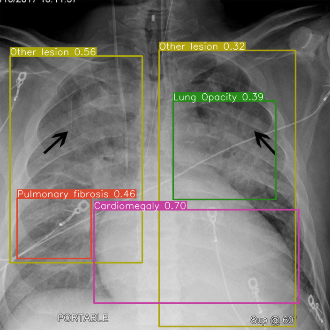
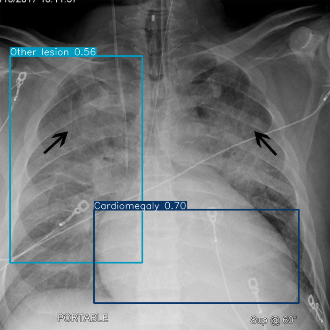
repair some code in ajax and change img all the time using ajax

diff --git a/app/static/js/main.js b/app/static/js/main.js
@@ -320,6 +320,11 @@ function ajaxInUserManagement() {
 //   console.log(value.value);
 // }
 
+function removeQueryString(url) {
+  var parts = url.split('?');
+  var cleanedUrl = parts[0];
+  return cleanedUrl;
+}
 
 function sumUpManualBoundingBoxAndDownloadInXray() {
   // edit and download file
@@ -329,6 +334,9 @@ function sumUpManualBoundingBoxAndDownloadInXray() {
     var ctx = canvas.getContext("2d");
     var realImg = document.getElementById("xray-img--output");
     var image = document.getElementById("img_link_download");
+    // console.log(image);
+    // var imgSrc = image.src;
+    // image.src = removeQueryString(imgSrc);
     var editBtn = document.getElementById("editing");
     var downloadBtn = document.getElementById("downloading");
     var undoBtn = document.getElementById('btn-undo-xray');
@@ -343,8 +351,8 @@ function sumUpManualBoundingBoxAndDownloadInXray() {
 
     // canvas.width = image.width;
     // canvas.height = image.height;
-    canvas.width = image.width;
-    canvas.height = image.height;
+    canvas.width = 330;
+    canvas.height = 330;
     canvas.style.objectFit = "contain";
 
     var isDrawing = false;
@@ -509,7 +517,7 @@ function sumUpManualBoundingBoxAndDownloadInXray() {
                         "<p class='mb-0 w-75 text-left text-secondary'>"+ item +"</p>" + 
                           "<div class='w-25 text-right'>" + 
                                 "<input type='hidden' class='delete-doctor-predict' value='"+ item + "' />"+
-                              "<i id='"+ item+"' style='font-size: 18px' class='doctor-predict-icon fa-solid fa-circle-minus text-right text-danger'></i>" +
+                              "<i id='"+ item+"' style='font-size: 18px' class='doctor-predict-icon fa-solid fa-pen-to-square text-right text-danger'></i>" +
                           "</div>" + 
                         "</div>" + 
                       "<div style='height: 5px;background-color: #ccc;border-radius: 10px;overflow: hidden;' class='xray-percent--outer w-100'>"+
@@ -517,6 +525,7 @@ function sumUpManualBoundingBoxAndDownloadInXray() {
                       "</div>" + 
                     "</div>"; 
       });
+      // <i class="fa-solid fa-pen-to-square"></i>
       $('#profile').html(htmlContent)
     }
 
@@ -595,9 +604,8 @@ function sumUpManualBoundingBoxAndDownloadInXray() {
     });
 
     // Sự kiện khi nhấn nút "Download"
-    // $(document).ready(function() {
         downloadBtn.addEventListener("click", function() {
-          // console.log("Btn is clicked");
+          var count = 0;
           // Lấy reference đến canvas và context
           if(boundingBoxes.length != 0 && hashMapData.length != 0){
             var imageUrl = document.getElementById("img_link_download").src;
@@ -616,30 +624,26 @@ function sumUpManualBoundingBoxAndDownloadInXray() {
             imageClass.src = proxyUrl;
 
             canvas.toBlob(function(blob) {
-              var link = document.createElement("a");
-              link.href = URL.createObjectURL(blob);
-              link.download = "image_with_bounding_box.jpg";
-              link.click();
+              if(count == 0){
+                var link = document.createElement("a");
+                link.href = URL.createObjectURL(blob);
+                link.download = "image_with_bounding_box.jpg";
+                link.click();
+                count = count + 1;
+              }
             }, "image/jpeg");
             redrawCanvas();
-
+            isDrawing = false;
           } else{
-            downloadImage();
-            redrawCanvas();
+            if(count == 0){
+              downloadImage();
+              redrawCanvas();
+              isDrawing = false;
+              count = count + 1;
+            }
           }
         });
-      // else {
-      //   downloadBtn.addEventListener("click", function() {
-      //     console.log(boundingBoxes.length)
-      //     console.log(hashMapData.length)
-      //     downloadImage();
-      //     redrawCanvas();
-      //   });
-      // }
 
-    // });
-
-    // });
   });
 }
 

diff --git a/app/templates/xray/xray.html b/app/templates/xray/xray.html
@@ -72,6 +72,12 @@
 
                         <div class="tab-content w-100" id="myTabContent">
                             <!-- { if zip_data %} -->
+                            <div style="display:{% if user_image %}none;{% else %}block;{% endif %}" class="col-lg-12 col-sm-12 col-md-12 mb-0 mt-3 d-flex flex-wrap justify-content-center">
+                                <div style="display:{% if user_image %}none;{% else %}block;{% endif %}" class="alert alert-danger mb-0">
+                                    <p class="mb-0">There is no disease</p>
+                                </div>
+                            </div>
+
                             <div class="tab-pane fade show active" id="home" role="tabpanel" aria-labelledby="home-tab">
                                 {% for sick_name, percentage, sick_name_eng, colors in zip_data %}
                                 <div style="cursor: pointer" class="text-light xray-predict__item w-100 mb-2">

diff --git a/app/controllers/XrayController.py b/app/controllers/XrayController.py
@@ -1,6 +1,7 @@
 from flask import render_template, session, redirect, request, url_for, current_app, sessions, send_file, jsonify
 from datetime import datetime
 import requests
+import random
 from io import BytesIO
 from models.Account import AccountModel
 from models.Disease import DiseaseModel
@@ -59,8 +60,10 @@ class XrayController:
                     path_to_save = (os.path.join(static_folder_path, 'img', image.filename))
                     path_to_save_local = (os.path.join(static_folder_path, 'img', 'data', image.filename))
                     # image.save(path_to_save_local)
+                    session['relative_path_to_save_local'] = path_to_save_local;
 
                     print((path_to_save))
+                    session['image_name'] = image.filename;
                     session['relative_path_to_save'] = '/static/img/'+image.filename
                     session['path_to_save'] = path_to_save
 
@@ -139,15 +142,15 @@ class XrayController:
                 if data:
                     path_ = data.get('img_link');
                     conf_thres_ajax = float(data.get('range'));
-                    print(path_)
-                    print(conf_thres_ajax)
+                    # print(path_)
+                    # print(conf_thres_ajax)
                     # static_folder_path = os.path.join(app.root_path, 'static')
                     # path_to_save = str(os.path.join(static_folder_path, 'img', image.filename))
                     path_to_save = session.get('path_to_save')
                     print(path_to_save)
 
                     # Tìm đường dẫn tương đối của thư mục static
-                    static_path = os.path.relpath(path_to_save, os.path.join(os.getcwd(), 'app'))
+                    # static_path = os.path.relpath(path_to_save, os.path.join(os.getcwd(), 'app'))
 
                     path_ = session.get('path_predict');
 
@@ -160,8 +163,18 @@ class XrayController:
                     doctor_zip_data = []
 
                     if ndet!=0:
-                        path_to_save_local = session.get('path_to_save_local');
+                        # os.remove(session.get('path_to_save_local'));
+                        path_to_save_local = session.get('relative_path_to_save_local');
                         cv2.imwrite(path_to_save_local, frame)
+
+                        image_re = cv2.imread(path_to_save_local)
+                        resized_image = cv2.resize(image_re, (330, 330))
+                        cv2.imwrite(path_to_save_local, resized_image)
+
+                        image_name = session.get('image_name');
+                        random_string = self.medicalRecord.generate_random_string(8);
+                        img_local = '/static/img/data/'+image_name+"?random_string="+random_string;
+
 
                         real_percentage = []
                         for i in range(len(percentage)):
@@ -176,15 +189,15 @@ class XrayController:
                         # res = cloudinary.uploader.upload(image_data);
                         # path_ = res['secure_url'];
                         
-                        print(path_)
+                        # print(path_)
                         
                         zip_data = list(zip(sick_name, real_percentage, sick_name_eng, colors));
                         doctor_zip_data = zip_data;
 
-                        return render_template("/xray/change_range.html", user_image = path_ , user_image_local = session.get('path_to_save_local'), rand = str(random()), percentage = percentage, sick_name = sick_name, conf_thres= conf_thres_ajax, 
+                        return render_template("/xray/change_range.html", user_image = img_local , user_image_local = img_local, rand = str(random()), percentage = percentage, sick_name = sick_name, conf_thres= conf_thres_ajax, 
                         real_percentage = real_percentage, zip_data = zip_data, doctor_zip_data = doctor_zip_data, msg="Tải file lên thành công", ndet = ndet, label=label_name, content = 'index', page = 'xray')
                     else:
-                        return render_template('/xray/change_range.html',user_image = session.get('path_to_save') , conf_thres= conf_thres_ajax,
+                        return render_template('/xray/change_range.html',user_image = img_local , conf_thres= conf_thres_ajax,
                         rand = str(random()), msg='Không nhận diện được bệnh', ndet = ndet, content = 'index', page = 'xray')
                 else:
                     # Nếu không có dữ liệu, trả về thông báo lỗi

diff --git a/app/models/MedicalRecord.py b/app/models/MedicalRecord.py
@@ -1,5 +1,7 @@
 
 from database import DataBaseUtils
+import random
+import string
 
 class MedicalRecord:
     def __init__(self, m_rec_id, patient_id, img_before, img_last, medical_predict, percentage, date_created, doctor_predict):
@@ -87,6 +89,10 @@ class MedicalRecordModel(DataBaseUtils):
         if result.acknowledged:
             return True;
         return False;
+
+    def generate_random_string(self, length):
+        characters = string.ascii_letters + string.digits
+        return ''.join(random.choice(characters) for _ in range(length))
 
     def AUTO_MDR_ID(self):
         result = self.__conn.get_collection('medical_record').find_one({}, sort=[("m_rec_id", -1)])  #desc

diff --git a/app/__init__.py b/app/__init__.py
@@ -38,4 +38,3 @@ if __name__ == '__main__':
     app.config['SESSION_TYPE'] = 'filesystem' 
     routes(app)
     app.run(debug=True)
-    # st.rerun()
